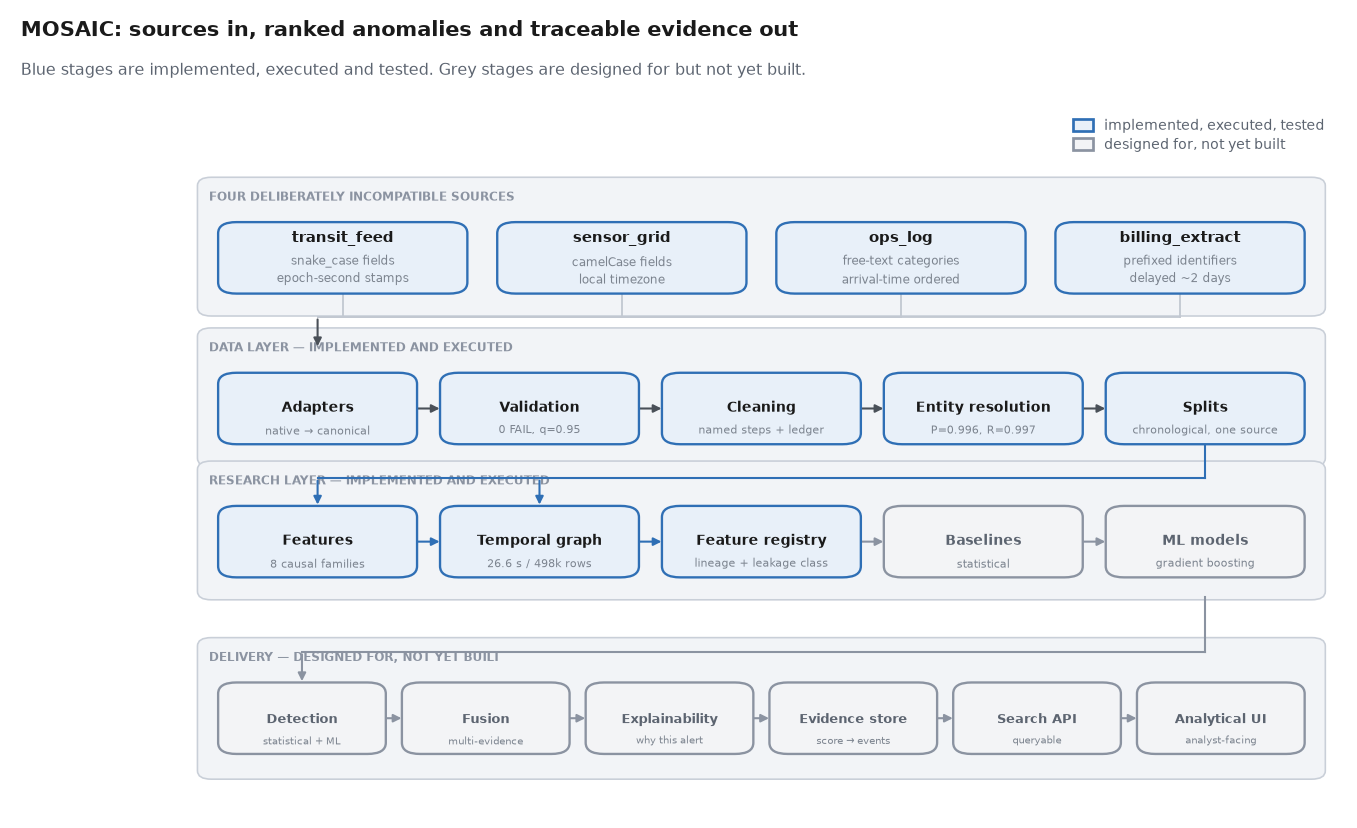
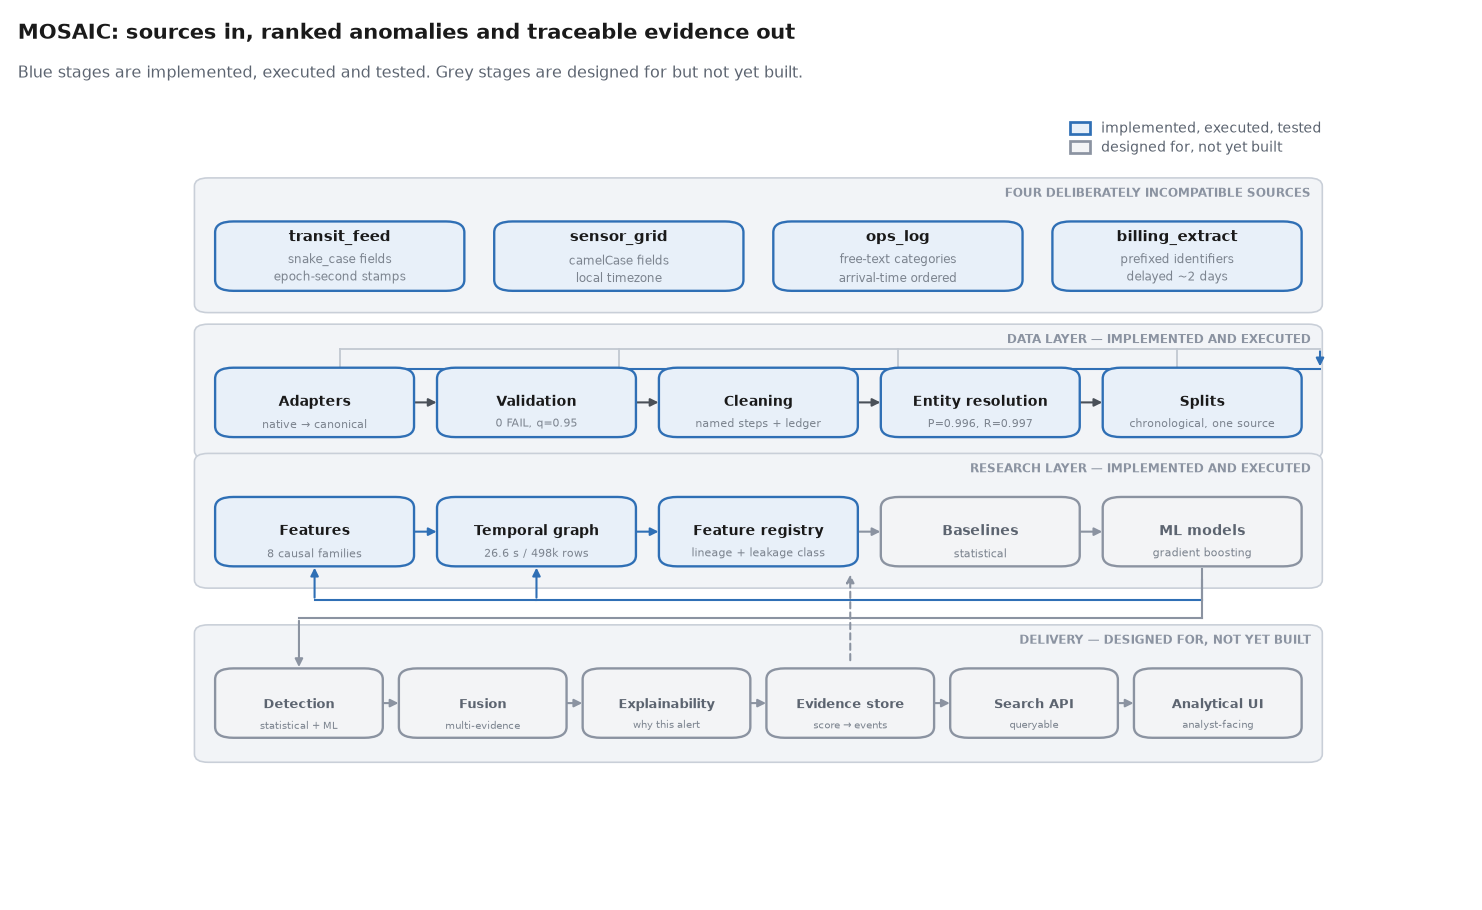
current build save

diff --git a/src/mosaic/reporting/figures.py b/src/mosaic/reporting/figures.py
@@ -385,11 +385,15 @@ def _band_around(
     # band instead put it in the gap belonging to the PREVIOUS band: band 2's
     # caption landed at y=0.771, inside band 1's box row (0.735-0.833), where the
     # boxes drew over it. A caption must be positioned relative to its own boxes.
+    # Anchored at the band's TOP-RIGHT. At the top-left it sat in the corridor the
+    # connectors entering from above must cross, and at the bottom-left it sat in
+    # the corridor the hand-off bus runs along. The top-right corner of every band
+    # in this figure is empty.
     ax.text(
-        left + 0.006,
-        top - 0.016,
+        right - 0.006,
+        top - 0.010,
         label.upper(),
-        ha="left",
+        ha="right",
         va="top",
         fontsize=6.8,
         fontweight="bold",
@@ -450,7 +454,6 @@ def _multiline_box(
 
     block_h = head_h + (gap + lines * line_h if lines else 0.0)
     h = max(h, block_h + 2 * pad)
-    top = y + h
     block_top = y + pad + block_h
 
     ax.add_patch(
@@ -627,12 +630,24 @@ def architecture(out_path: str | Path) -> str:
     # straight through the note text of the row it feeds. The notes are the last
     # thing in the box, so the only clear corridor below a row is outside the band.
     feed_y = res_boxes[0][1] - 0.052
-    ax.plot([splits_cx, splits_cx], [pipe_boxes[0][1] - 0.030, feed_y], color=BLUE, linewidth=1.15, zorder=2)
+    # splits_cx is the SPLITS box centre in band 2; the drop has to clear band 3's
+    # own box row on the way to the bus below it. pipe_boxes[0][1] - 0.030 is
+    # y=0.490, which is inside band 3 (boxes 0.330..0.428), so the shaft ran down
+    # through the ML models label. Stop the vertical just above the bus instead.
+    ax.plot([splits_cx, splits_cx], [feed_y, feed_y + 0.030], color=BLUE, linewidth=1.15, zorder=2)
     ax.plot([splits_cx, graph_cx], [feed_y, feed_y], color=BLUE, linewidth=1.15, zorder=2)
     ax.plot([features_cx, graph_cx], [feed_y, feed_y], color=BLUE, linewidth=1.15, zorder=2)
-    _arrow(ax, graph_cx, feed_y, graph_cx, res_boxes[0][1] + res_boxes[0][3] + 0.006, color=BLUE, rad=0.0)
-    _arrow(ax, graph_cx, res_boxes[0][1] + 0.006, graph_cx, res_boxes[0][1], color=BLUE)
-    _arrow(ax, features_cx, res_boxes[0][1] + 0.006, features_cx, res_boxes[0][1], color=BLUE)
+    # One arrow per target, each spanning from the bus down to the box TOP. The
+    # previous version ran a single long arrow to box_top + 0.006 and then added a
+    # 0.006 stub from box_bottom + 0.006 back to box_bottom: that stub sat *inside*
+    # the box, drawing a tick across the label, and the long arrow's shrink left it
+    # spanning the box interior.
+    # feed_y is BELOW this row, so the arrow rises from the bus to the box BOTTOM.
+    # Ending it at the box top drew the shaft straight through the label and its
+    # note (a 0.15-tall arrow crossing 0.33-0.428).
+    res_bot = res_boxes[0][1]
+    _arrow(ax, graph_cx, feed_y, graph_cx, res_bot, color=BLUE, rad=0.0)
+    _arrow(ax, features_cx, feed_y, features_cx, res_bot, color=BLUE, rad=0.0)
 
     # --- row 4: delivery, all planned
     del_boxes = row(
@@ -653,12 +668,30 @@ def architecture(out_path: str | Path) -> str:
     for i in range(1, 6):
         _arrow(ax, del_boxes[i - 1][0] + del_w, del_boxes[0][1] + del_boxes[0][3] / 2, del_boxes[i][0], del_boxes[0][1] + del_boxes[0][3] / 2, color=GREY)
 
+    # The Evidence store is the only delivery stage that writes BACK into the
+    # implemented research layer: it records the events behind every score, which
+    # is what makes an explanation traceable. Dashed so it is not read as part of
+    # the left-to-right delivery chain it sits inside.
+    # It must physically reach the research layer, so the target is the research
+    # band's own floor, not the hand-off bus (which sits below that band). The
+    # arrow is drawn after the boxes, so the short span through the band gap is
+    # what is visible; routing it up the right-hand clear margin keeps it off text.
+    ev_x = del_boxes[3][0] + del_w / 2
+    ev_top = del_boxes[0][1] + del_boxes[0][3]
+    _arrow(ax, ev_x, ev_top + 0.010, ev_x, res_boxes[0][1] - 0.010, color=GREY, rad=0.0, ls=(0, (3, 2)))
+
     # The delivery row is fed from the models, not from the implemented baselines:
     # the pipeline it depends on is the planned one.
     models_cx = res_boxes[4][0] + res_w / 2
     detection_cx = del_boxes[0][0] + del_w / 2
-    hand_y = 0.222
-    ax.plot([models_cx, models_cx], [0.330 - 0.030, hand_y], color=GREY, linewidth=1.15, zorder=2)
+    # The delivery band caption occupies y 0.204..0.222 at x 0.018..0.272, so a
+    # hand-off bus at hand_y = 0.222 drew straight through the caption text. Route
+    # it in the empty floor of the band, below the caption.
+    hand_y = 0.252
+    # Start the drop at the ML box BOTTOM. 0.330 - 0.030 is above the box top
+    # (0.428), so the shaft ran down through the "ML models" label and its note.
+    res_bot_y = res_boxes[0][1]
+    ax.plot([models_cx, models_cx], [res_bot_y - 0.006, hand_y], color=GREY, linewidth=1.15, zorder=2)
     ax.plot([models_cx, detection_cx], [hand_y, hand_y], color=GREY, linewidth=1.15, zorder=2)
     _arrow(ax, detection_cx, hand_y, detection_cx, 0.078 + H, color=GREY)
 

diff --git a/README.md b/README.md
@@ -256,39 +256,16 @@ listed so the eventual result — including a negative one — has somewhere to 
 
 ## 6. System architecture
 
-```mermaid
-flowchart TB
-    subgraph S["Sources"]
-        S1["Source A<br/>transit_feed"]
-        S2["Source B<br/>sensor_grid"]
-        S3["Source C<br/>ops_log"]
-        S4["Source D<br/>billing_extract"]
-    end
-    S1 --> AD[Adapters]
-    S2 --> AD
-    S3 --> AD
-    S4 --> AD
-    AD --> RAW[("Raw Parquet<br/>+ provenance")]
-    RAW --> VAL["Validation<br/>non-destructive"]
-    VAL --> CLEAN["Cleaning<br/>named steps + ledger"]
-    CLEAN --> ER["Entity resolution<br/>blocking → match → cluster"]
-    ER --> CANON["Canonical events<br/>+ entity_id"]
-    CANON --> SPLIT["Chronological splits<br/>(single source of truth)"]
-    SPLIT --> FEAT["Feature framework<br/>8 causal families"]
-    CANON --> TG["Temporal graph<br/>causal snapshots"]
-    TG --> FEAT
-    FEAT --> REG[("Feature registry<br/>lineage + leakage class")]
-    FEAT --> STAT["Statistical<br/>baselines"]
-    FEAT --> ML["ML models"]
-    STAT --> DET["Anomaly detection"]
-    ML --> DET
-    DET --> FUSE["Evidence fusion"]
-    FUSE --> EXPLAIN["Explainability"]
-    EXPLAIN --> EVID[("Evidence store<br/>score → features → events")]
-    EVID --> API["Search API"]
-    API --> UI["Analytical UI"]
-    REG -.fingerprint.-> ML
-```
+![MOSAIC system architecture: four deliberately incompatible sources feed a data layer of
+adapters, validation, cleaning, entity resolution and chronological splits; a research layer
+of causal features, the temporal graph and the feature registry feeds a designed baselines and
+ML stage; a delivery band of detection, fusion, explainability, evidence store, search API and
+analytical UI is designed but not yet built. A dashed arrow links the evidence store back to the
+feature registry.](docs/figures/architecture.png)
+
+*The system in four bands. Blue stages are implemented, executed and tested; grey stages are
+designed for but not yet built. The dashed arrow is the evidence store writing the events behind
+each score back into the feature registry, which is what makes an explanation traceable.*
 
 Stages shown as detectors, fusion, API and UI are **not yet implemented**.
 
